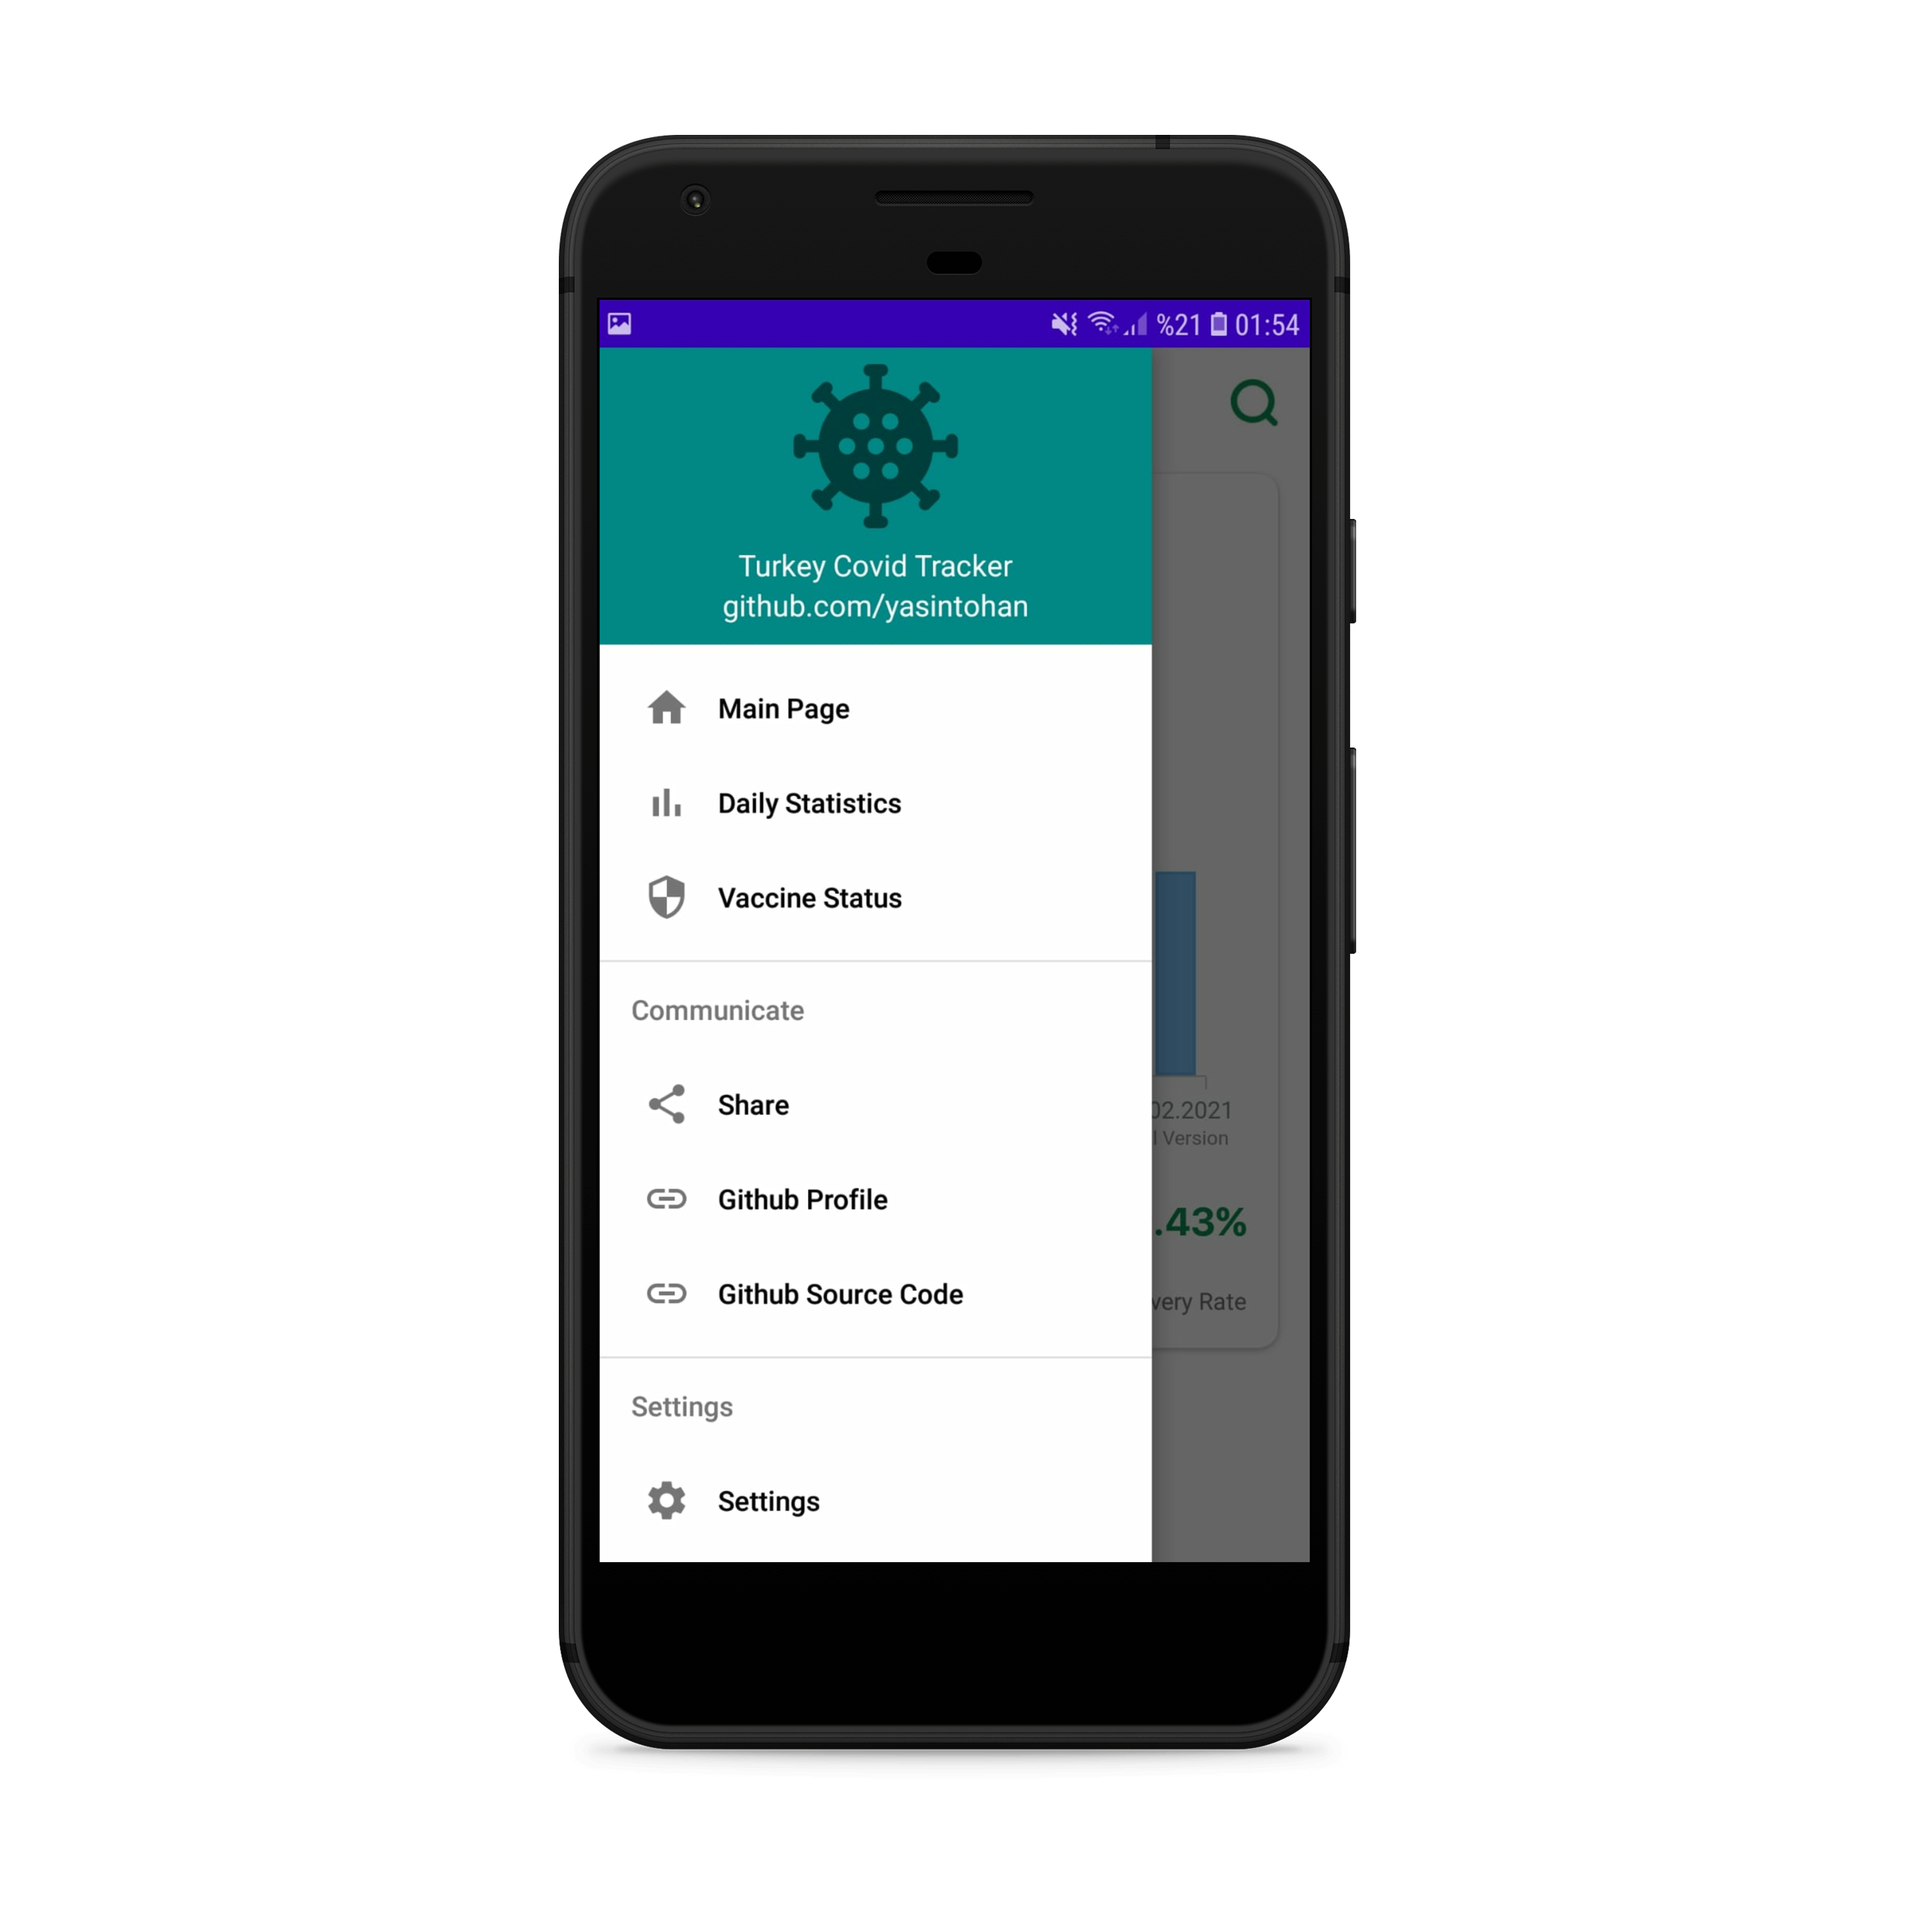
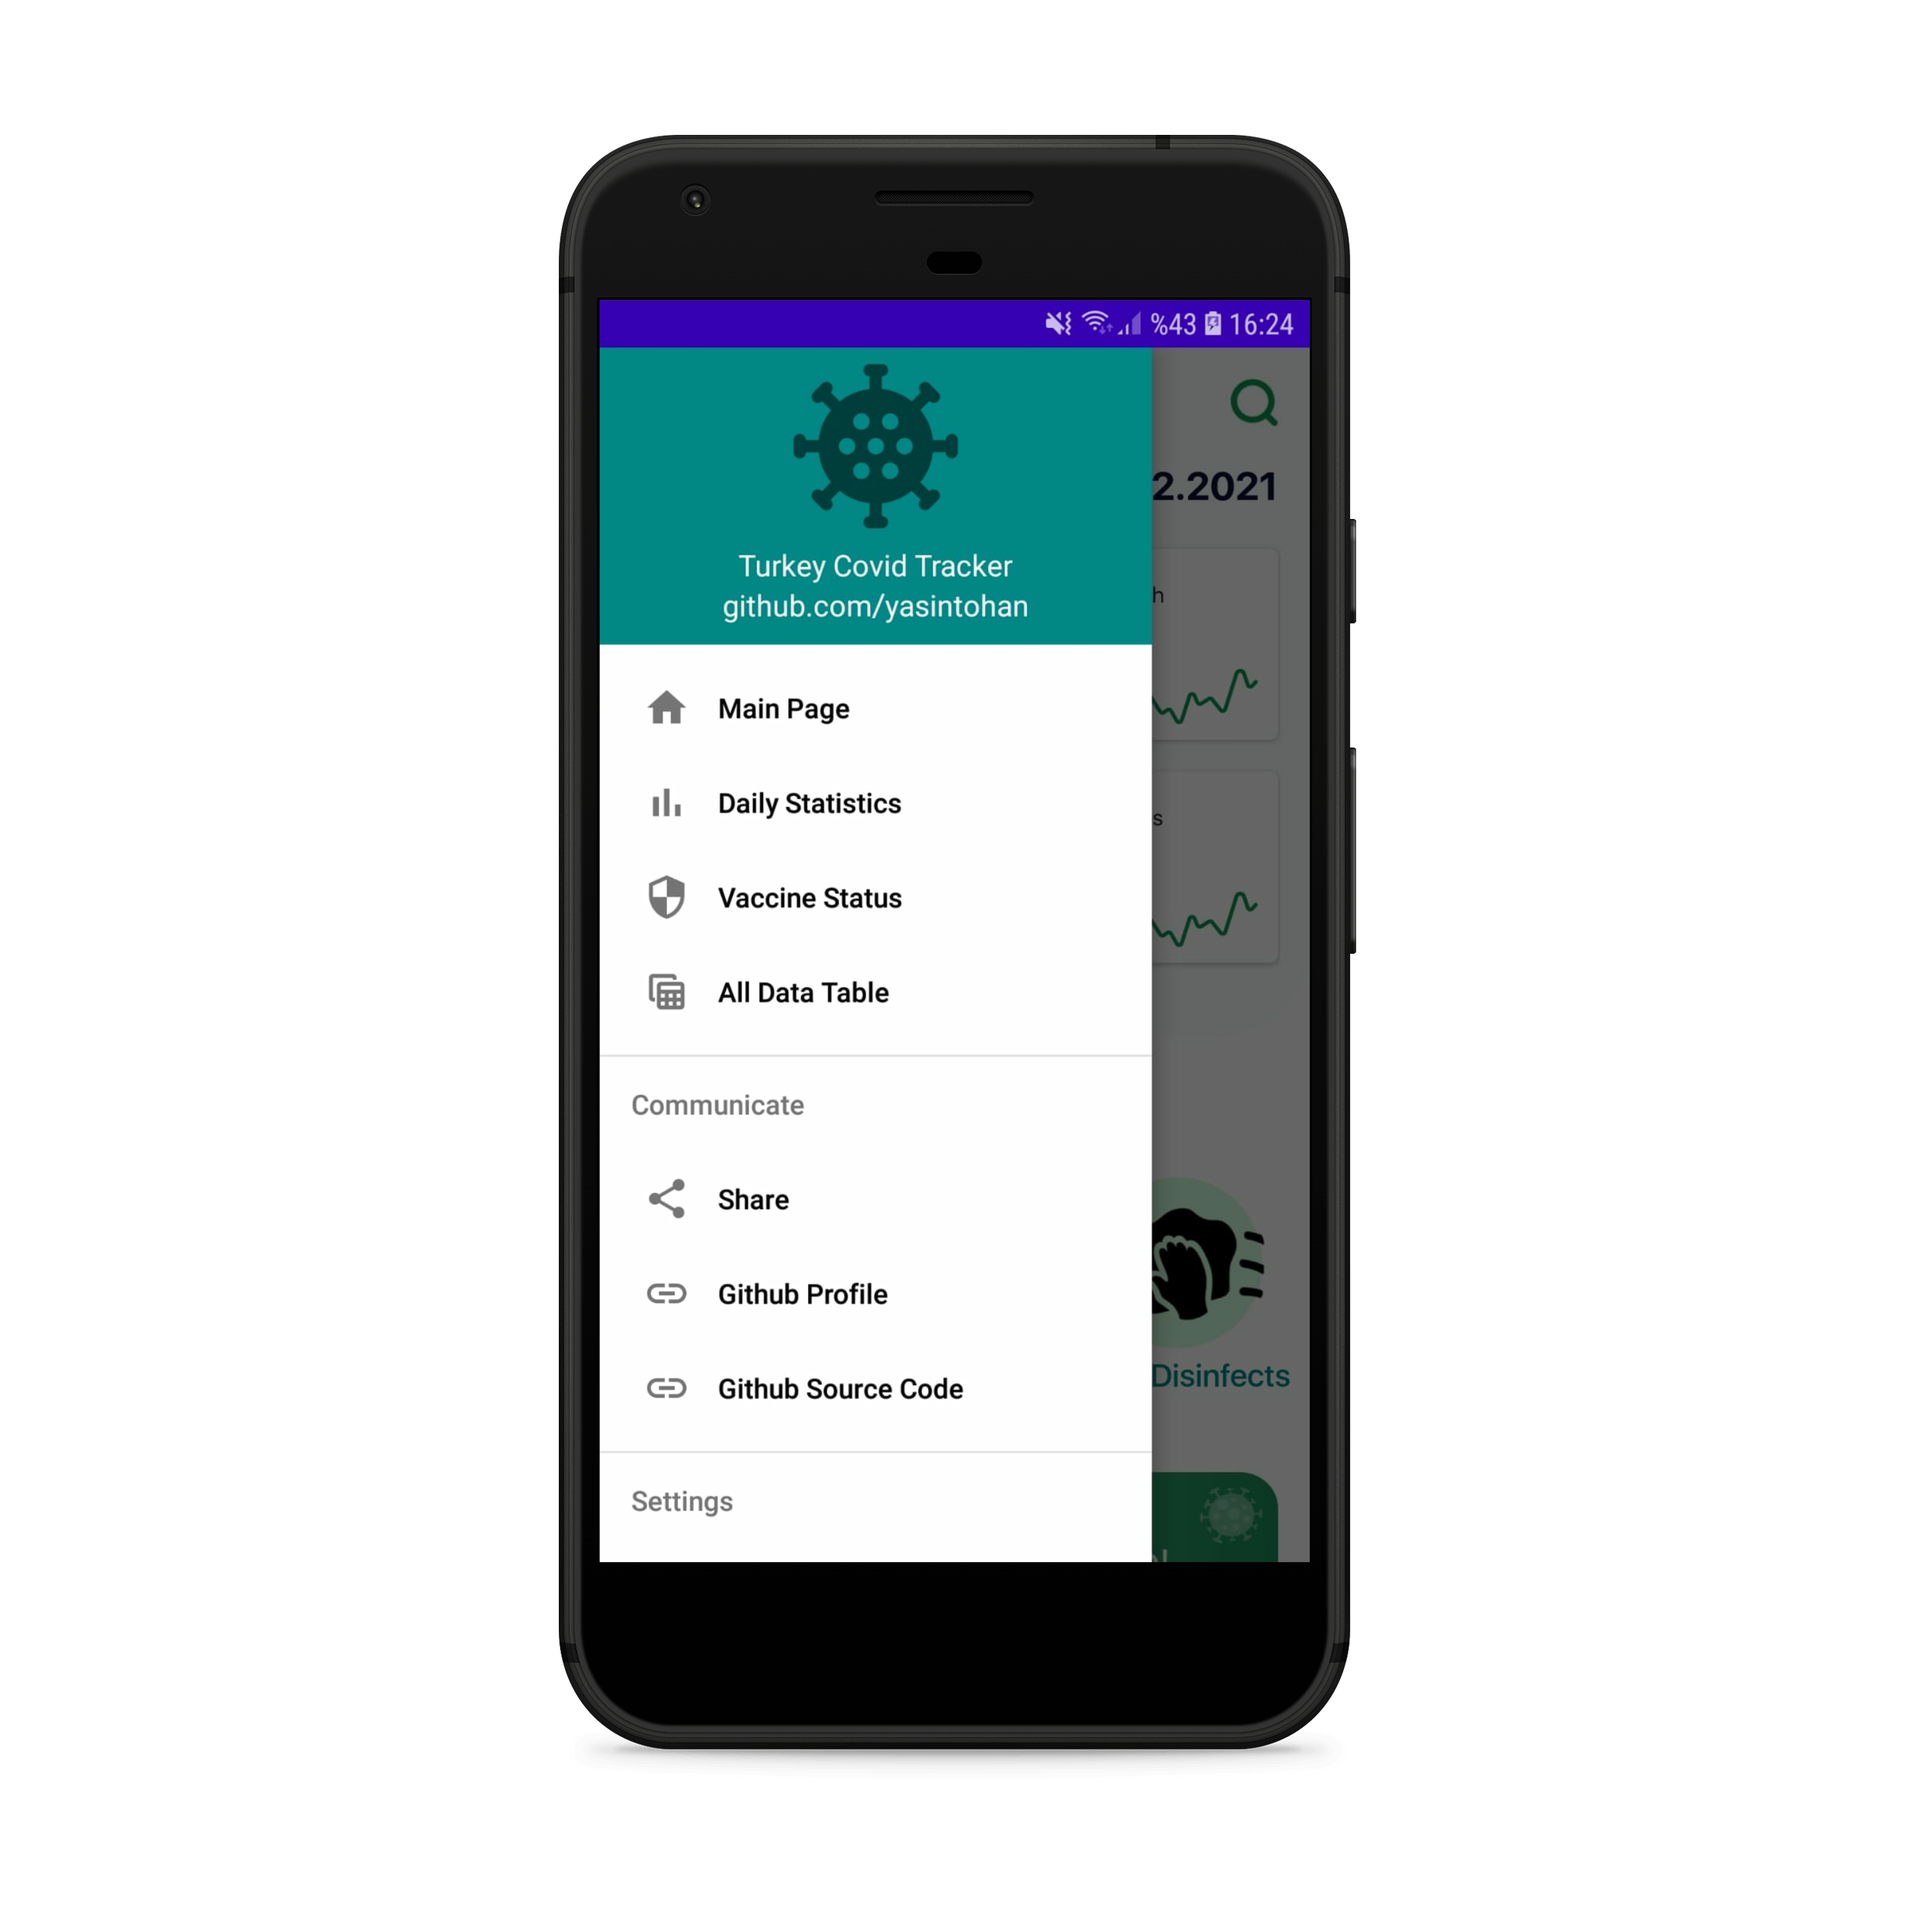
Data Table Added

diff --git a/TurkeyCovidTracker/app/src/main/java/com/tohandesign/turkeycovidtracker/TableDataActivity.java b/TurkeyCovidTracker/app/src/main/java/com/tohandesign/turkeycovidtracker/TableDataActivity.java
@@ -14,16 +14,24 @@ import android.view.MenuItem;
 import android.view.View;
 
 import com.google.android.material.navigation.NavigationView;
+import com.levitnudi.legacytableview.LegacyTableView;
 
-public class SettingsActivity extends AppCompatActivity implements NavigationView.OnNavigationItemSelectedListener{
+import java.util.ArrayList;
+import java.util.List;
+
+
+
+public class TableDataActivity extends AppCompatActivity implements NavigationView.OnNavigationItemSelectedListener{
+
     DrawerLayout drawerLayout;
     NavigationView navigationView;
     ActionBarDrawerToggle toggle;
+    public static List<CovidInfoItem> itemList = new ArrayList<CovidInfoItem>();;
+
     @Override
     protected void onCreate(Bundle savedInstanceState) {
         super.onCreate(savedInstanceState);
-        setContentView(R.layout.activity_settings);
-
+        setContentView(R.layout.activity_table_data);
 
         drawerLayout = findViewById(R.id.drawer);
         navigationView = findViewById(R.id.navmenu);
@@ -33,6 +41,35 @@ public class SettingsActivity extends AppCompatActivity implements NavigationVie
         toggle.setDrawerIndicatorEnabled(true);
         navigationView.setNavigationItemSelectedListener(this);
         toggle.syncState();
+
+
+        itemList = DataActivity.itemList;
+
+
+        //set table title labels
+        LegacyTableView.insertLegacyTitle("Date", "Daily Test", "Daily Case", "Daily Patient", "Daily Death", "Daily Recovered", "Total Test", "Total Case", "Total Death", "Total Recovered", "Heavy Patients","Rate of Pneumonia", "Bed Filling Ratio","Intensive Occupancy Rate", "Ventilator Rate", "Detection Time", "Filation Rate");
+        //set table contents as string arrays
+        for (CovidInfoItem item : itemList) {
+            LegacyTableView.insertLegacyContent(item.getDate(),item.getDailyTest(),item.getDailyCase(),item.getDailyPatient(),item.getDailyDeath(),item.getDailyRecovered(),
+                    item.getTotalTest(),item.getTotalCase(),item.getTotalDeath(),item.getTotalRecovered(),item.getHeavyPatients(),
+                    item.getZaturreRate()+"%",item.getBedOccupancy()+"%",item.getIntensiveOccupancyRate()+"%",item.getVentilatorRate()+"%",item.getDetectionTime()+"Hours",item.getFilationRate()+"%");
+
+        }
+
+
+
+        LegacyTableView legacyTableView = (LegacyTableView)findViewById(R.id.legacy_table_view);
+        legacyTableView.setTitle(LegacyTableView.readLegacyTitle());
+        legacyTableView.setContent(LegacyTableView.readLegacyContent());
+        legacyTableView.setTheme(10);
+        legacyTableView.setHeaderBackgroundLinearGradientBOTTOM("#0D8E53");
+        legacyTableView.setHeaderBackgroundLinearGradientTOP("#0D8E53");
+
+        legacyTableView.setTablePadding(7);
+
+        legacyTableView.build();
+
+
 
     }
 
@@ -55,14 +92,14 @@ public class SettingsActivity extends AppCompatActivity implements NavigationVie
                 Intent s= new Intent(this, SettingsActivity.class);
                 startActivity(s);
                 break;
-            case R.id.nav_table:
-                Intent t= new Intent(this, TableDataActivity.class);
-                startActivity(t);
-                break;
             case R.id.nav_profile:
                 Uri uriProfile = Uri.parse("https://github.com/yasintohan");
                 Intent intentUri = new Intent(Intent.ACTION_VIEW, uriProfile);
                 startActivity(intentUri);
+                break;
+            case R.id.nav_table:
+                Intent t= new Intent(this, TableDataActivity.class);
+                startActivity(t);
                 break;
             case R.id.nav_github:
                 Uri uriGithub = Uri.parse("https://github.com/yasintohan/Turkey-Covid-Tracker");
@@ -85,6 +122,7 @@ public class SettingsActivity extends AppCompatActivity implements NavigationVie
     {
         drawerLayout.openDrawer(Gravity.LEFT);
     }
+
 
 
 }

diff --git a/TurkeyCovidTracker/app/src/main/java/com/tohandesign/turkeycovidtracker/Details.java b/TurkeyCovidTracker/app/src/main/java/com/tohandesign/turkeycovidtracker/Details.java
@@ -415,6 +415,10 @@ public class Details extends AppCompatActivity implements NavigationView.OnNavig
                 Intent intentUri = new Intent(Intent.ACTION_VIEW, uriProfile);
                 startActivity(intentUri);
                 break;
+            case R.id.nav_table:
+                Intent t= new Intent(this, TableDataActivity.class);
+                startActivity(t);
+                break;
             case R.id.nav_github:
                 Uri uriGithub = Uri.parse("https://github.com/yasintohan/Turkey-Covid-Tracker");
                 Intent intentGit = new Intent(Intent.ACTION_VIEW, uriGithub);
@@ -678,7 +682,7 @@ public class Details extends AppCompatActivity implements NavigationView.OnNavig
         thismonth = thismonth/dayCounter;
         dayCounter = 0;
 
-        while(monthCount == (testMonth-1)) {
+        while((monthCount == (testMonth-1) || ((testMonth-1) == 0 && monthCount == 12))) {
 
             String itemData;
             switch (dataId) {

diff --git a/TurkeyCovidTracker/app/src/main/java/com/tohandesign/turkeycovidtracker/DataActivity.java b/TurkeyCovidTracker/app/src/main/java/com/tohandesign/turkeycovidtracker/DataActivity.java
@@ -137,6 +137,10 @@ public class DataActivity extends AppCompatActivity implements NavigationView.On
                 Intent intentUri = new Intent(Intent.ACTION_VIEW, uriProfile);
                 startActivity(intentUri);
                 break;
+            case R.id.nav_table:
+                Intent t= new Intent(this, TableDataActivity.class);
+                startActivity(t);
+                break;
             case R.id.nav_github:
                 Uri uriGithub = Uri.parse("https://github.com/yasintohan/Turkey-Covid-Tracker");
                 Intent intentGit = new Intent(Intent.ACTION_VIEW, uriGithub);

diff --git a/TurkeyCovidTracker/app/src/main/java/com/tohandesign/turkeycovidtracker/MainActivity.java b/TurkeyCovidTracker/app/src/main/java/com/tohandesign/turkeycovidtracker/MainActivity.java
@@ -141,6 +141,10 @@ public class MainActivity extends AppCompatActivity implements NavigationView.On
                 Intent intentUri = new Intent(Intent.ACTION_VIEW, uriProfile);
                 startActivity(intentUri);
                 break;
+            case R.id.nav_table:
+                Intent t= new Intent(this, TableDataActivity.class);
+                startActivity(t);
+                break;
             case R.id.nav_github:
                 Uri uriGithub = Uri.parse("https://github.com/yasintohan/Turkey-Covid-Tracker");
                 Intent intentGit = new Intent(Intent.ACTION_VIEW, uriGithub);

diff --git a/README.md b/README.md
@@ -5,7 +5,7 @@
 <br/>
 <img src = "/images/3.png" height="50%" width="50%"><img src = "/images/4.png" height="50%" width="50%">
 <br/>
-<img src = "/images/5.png" height="50%" width="50%">
+<img src = "/images/6.png" height="50%" width="50%"><img src = "/images/5.png" height="50%" width="50%">
 <br/>
 
 
